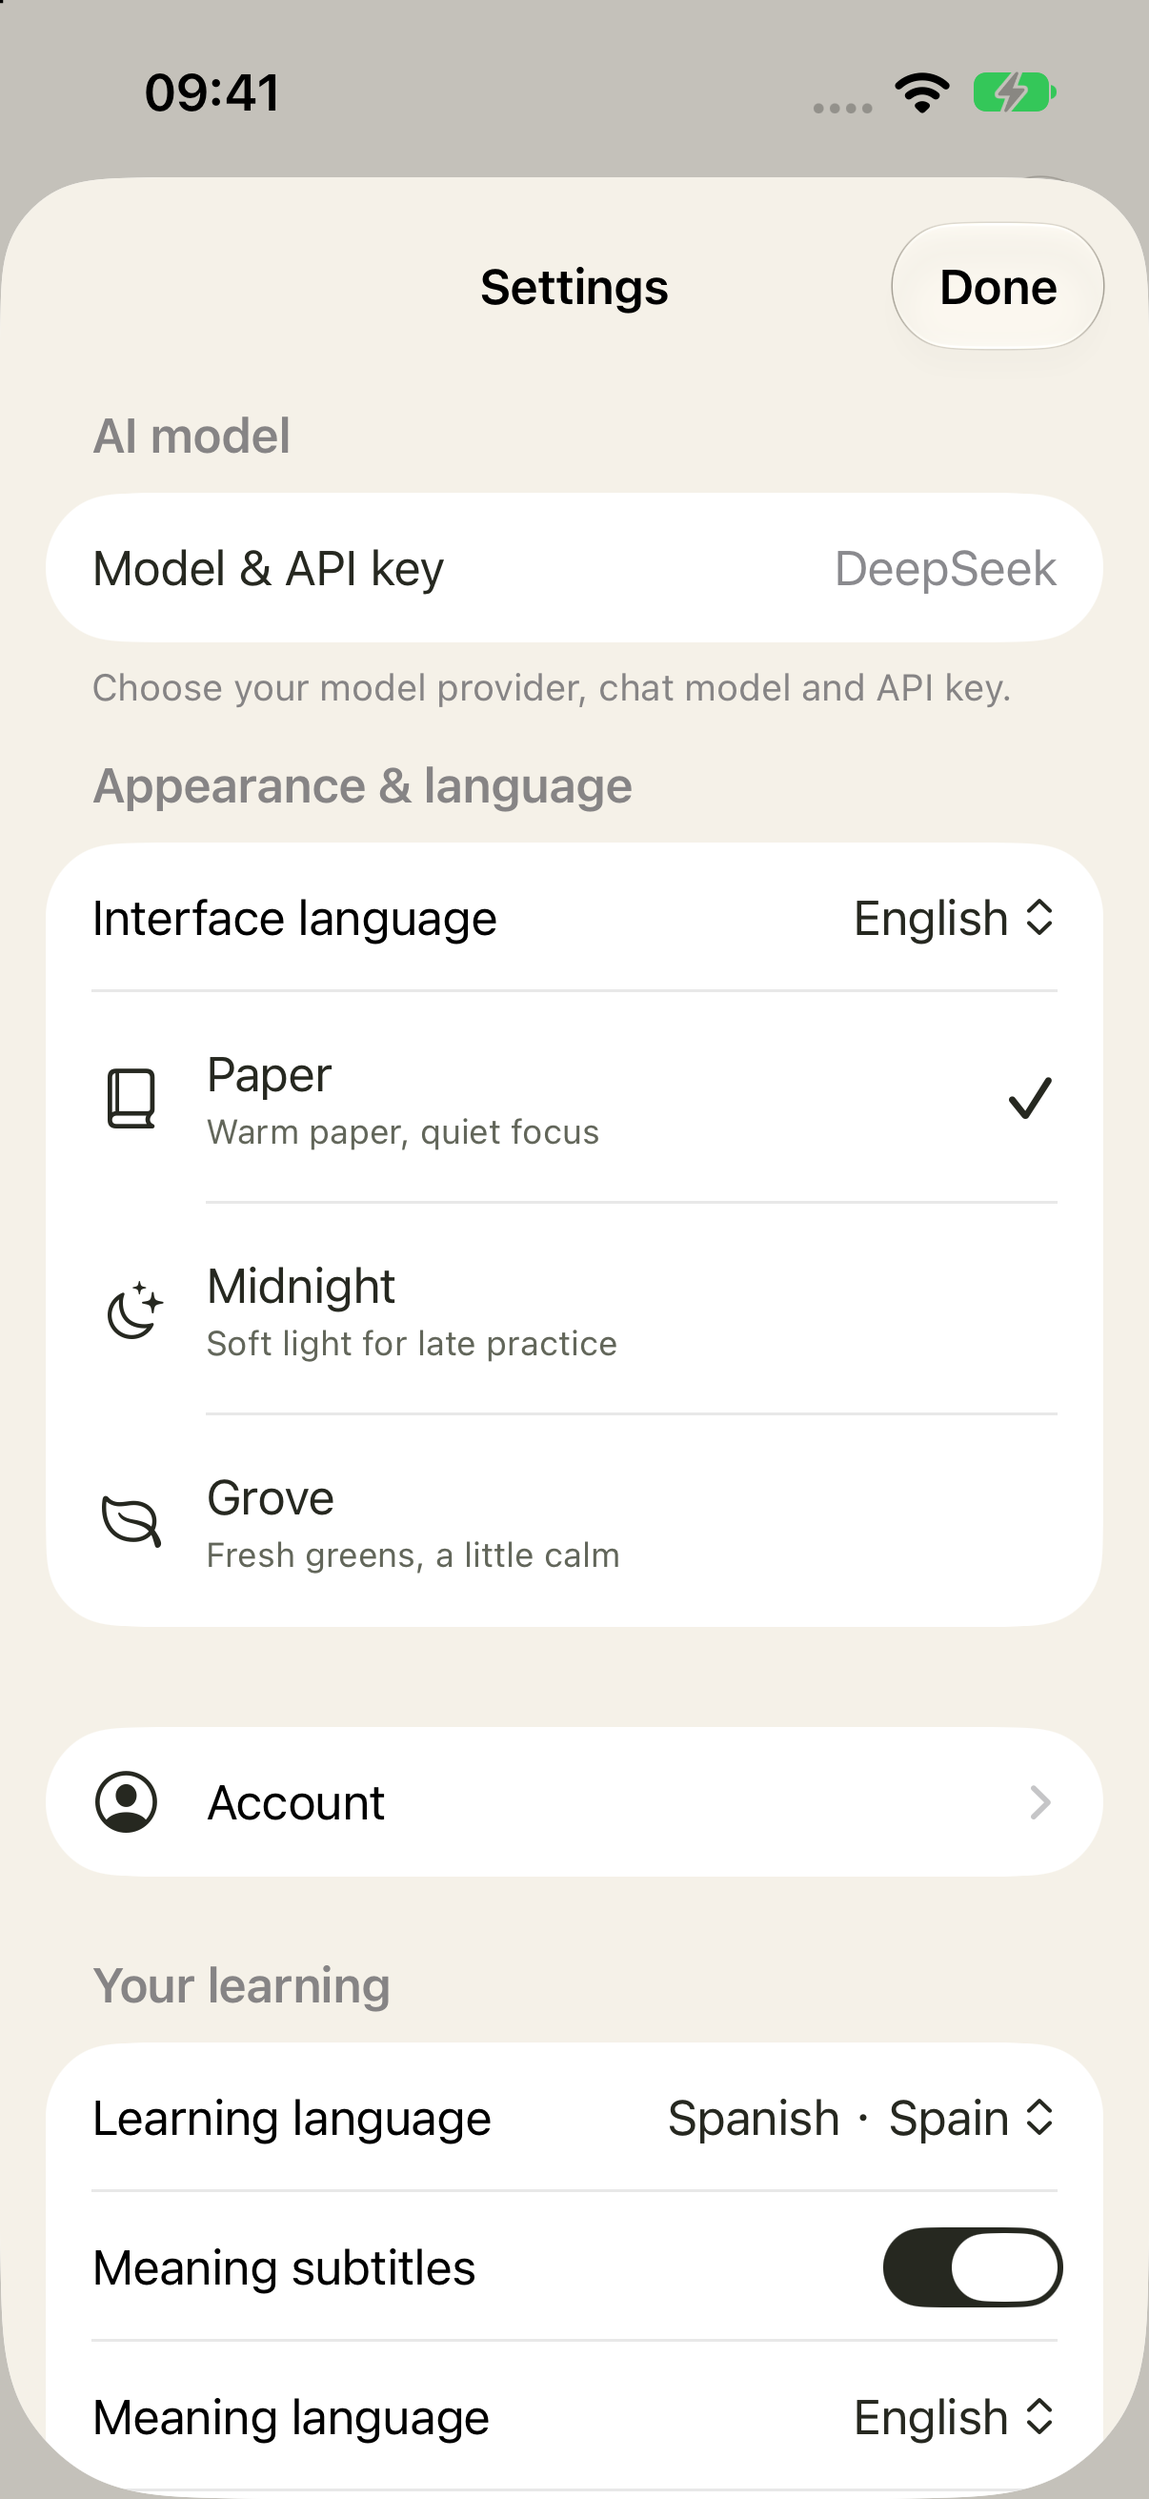
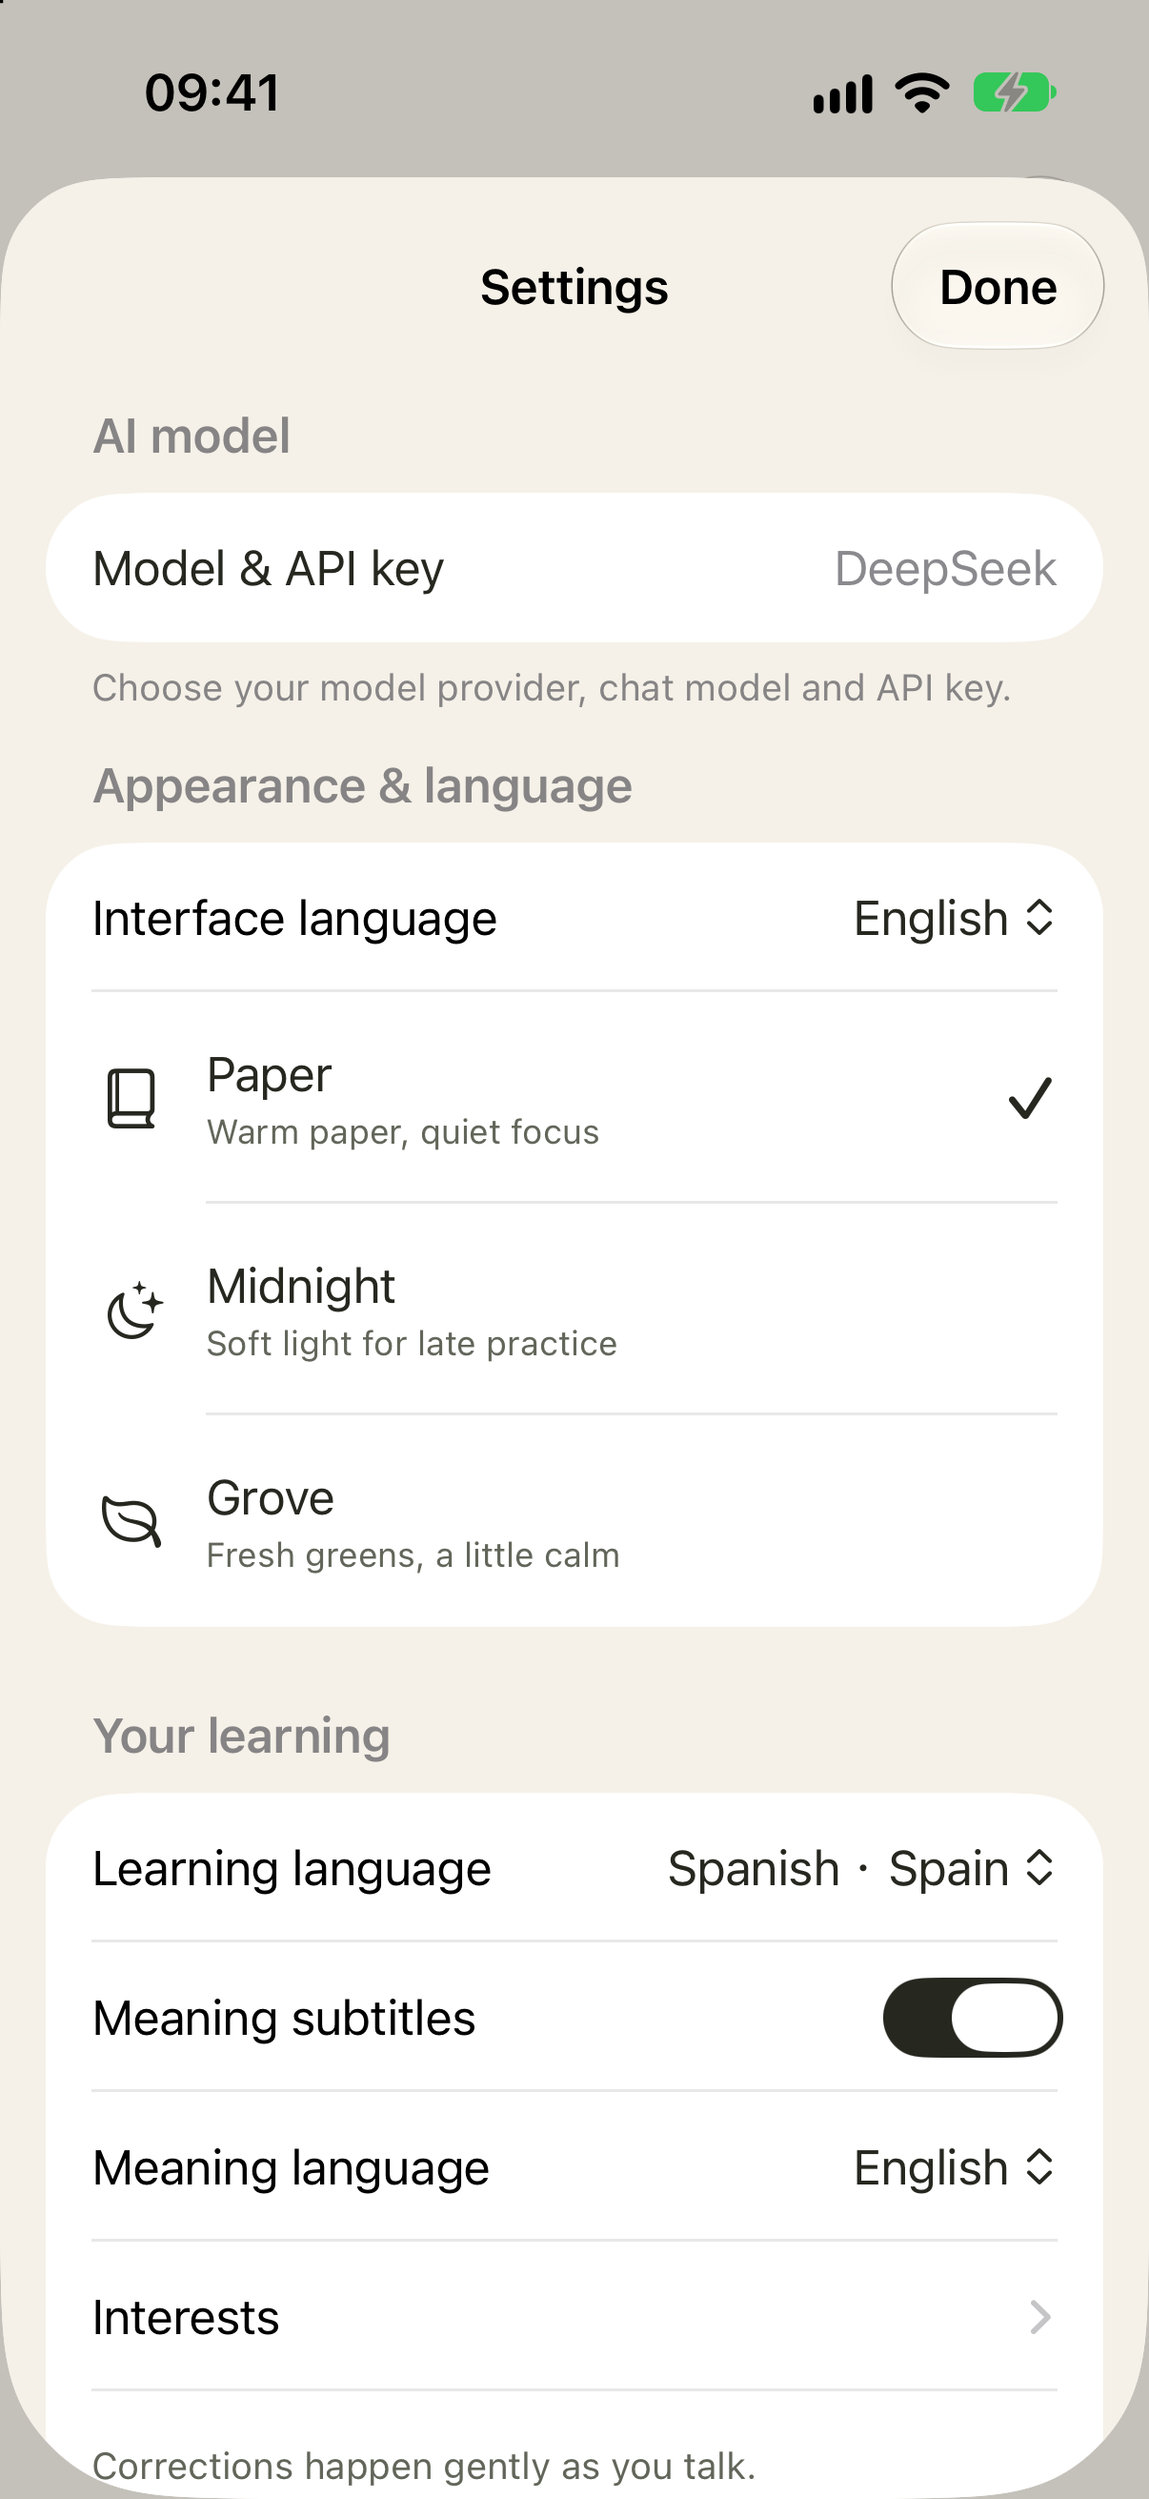
fix: disable app account sign-in by default

diff --git a/mobile/android/app/src/test/java/cn/gd306/tideenglish/network/EmailAccountClientTest.kt b/mobile/android/app/src/test/java/cn/gd306/tideenglish/network/EmailAccountClientTest.kt
@@ -9,12 +9,12 @@ import org.junit.Assert.*
 import org.junit.Test
 class EmailAccountClientTest {
  @Test fun challengeUsesFixedPathAndDoesNotFollowRedirects()=runTest {
-  var calls=0;val transport=OkHttpClient.Builder().addInterceptor { chain->calls++;assertEquals("https://api.gd306.cn/v1/email-auth/challenge",chain.request().url.toString());assertNull(chain.request().header("Authorization"));Response.Builder().request(chain.request()).protocol(Protocol.HTTP_1_1).code(302).message("redirect").header("Location","https://example.org/").body("{}".toResponseBody()).build() }.build()
-  try{EmailAccountClient(EmailAccountConfiguration(),transport).challenge("a@example.com");fail("accepted redirect")}catch(e:EmailAccountException){assertEquals(EmailAccountFailure.Unavailable,e.failure)};assertEquals(1,calls)
+  var calls=0;val transport=OkHttpClient.Builder().addInterceptor { chain->calls++;assertEquals("https://accounts.example.test/v1/email-auth/challenge",chain.request().url.toString());assertNull(chain.request().header("Authorization"));Response.Builder().request(chain.request()).protocol(Protocol.HTTP_1_1).code(302).message("redirect").header("Location","https://example.org/").body("{}".toResponseBody()).build() }.build()
+  try{EmailAccountClient(EmailAccountConfiguration("https://accounts.example.test"),transport).challenge("a@example.com");fail("accepted redirect")}catch(e:EmailAccountException){assertEquals(EmailAccountFailure.Unavailable,e.failure)};assertEquals(1,calls)
  }
  @Test fun rejectsExtraFieldsAndRedactsRawErrors()=runTest {
   val transport=OkHttpClient.Builder().addInterceptor { chain->Response.Builder().request(chain.request()).protocol(Protocol.HTTP_1_1).code(202).message("ok").body("""{"challengeID":"12345678-1234-4234-8234-123456789012","expiresInSeconds":300,"retryAfterSeconds":60,"secret":"private"}""".toResponseBody()).build() }.build()
-  try{EmailAccountClient(EmailAccountConfiguration(),transport).challenge("a@example.com");fail("accepted unknown field")}catch(e:EmailAccountException){assertEquals(EmailAccountFailure.InvalidResponse,e.failure);assertFalse(e.toString().contains("private"))}
+  try{EmailAccountClient(EmailAccountConfiguration("https://accounts.example.test"),transport).challenge("a@example.com");fail("accepted unknown field")}catch(e:EmailAccountException){assertEquals(EmailAccountFailure.InvalidResponse,e.failure);assertFalse(e.toString().contains("private"))}
  }
- @Test fun configurationRejectsCredentialPathsAndCleartext(){for(v in listOf("http://api.gd306.cn","https://u:p@api.gd306.cn","https://api.gd306.cn/path","https://api.gd306.cn?x=y"))assertThrows(EmailAccountException::class.java){EmailAccountConfiguration(v)}}
+ @Test fun configurationRejectsCredentialPathsAndCleartext(){for(v in listOf("http://accounts.example.test","https://u:p@accounts.example.test","https://accounts.example.test/path","https://accounts.example.test?x=y"))assertThrows(EmailAccountException::class.java){EmailAccountConfiguration(v)}}
 }

diff --git a/mobile/android/app/src/main/java/cn/gd306/tideenglish/EmailAccountViewModel.kt b/mobile/android/app/src/main/java/cn/gd306/tideenglish/EmailAccountViewModel.kt
@@ -5,15 +5,18 @@ import androidx.lifecycle.viewModelScope
 import cn.gd306.tideenglish.core.*
 import cn.gd306.tideenglish.network.*
 import kotlinx.coroutines.launch
+import kotlinx.coroutines.flow.MutableStateFlow
+import kotlinx.coroutines.flow.asStateFlow
 class EmailAccountViewModel(application:Application):AndroidViewModel(application) {
- private val configuration=EmailAccountConfiguration()
- private val controller=EmailAccountController(EmailAccountClient(configuration),EmailAccountSessionStore(application,configuration.storageScope),configuration.storageScope)
- val state=controller.state
- init {viewModelScope.launch {controller.restore()} }
- fun restore(){viewModelScope.launch {controller.restore()} }
- fun sendCode(email:String,deleting:Boolean=false){viewModelScope.launch {controller.sendCode(email,deleting)} }
- fun verify(code:String){viewModelScope.launch {controller.verify(code)} }
- fun signOut(){viewModelScope.launch {controller.signOut()} }
- fun invalidateChallenge()=controller.invalidateChallenge()
- fun cancelDeletion()=controller.cancelDeletion()
+ private val configuration=EmailAccountConfiguration.configured(BuildConfig.TIDE_ENGLISH_EMAIL_ACCOUNTS_ENABLED,BuildConfig.TIDE_ENGLISH_EMAIL_ACCOUNT_API_URL)
+ private val controller=configuration?.let { EmailAccountController(EmailAccountClient(it),EmailAccountSessionStore(application,it.storageScope),it.storageScope) }
+ val enabled=configuration!=null
+ val state=controller?.state?:MutableStateFlow(EmailAccountState()).asStateFlow()
+ init {restore()}
+ fun restore(){controller?.let { viewModelScope.launch {it.restore()} } }
+ fun sendCode(email:String,deleting:Boolean=false){controller?.let { viewModelScope.launch {it.sendCode(email,deleting)} } }
+ fun verify(code:String){controller?.let { viewModelScope.launch {it.verify(code)} } }
+ fun signOut(){controller?.let { viewModelScope.launch {it.signOut()} } }
+ fun invalidateChallenge()=controller?.invalidateChallenge()
+ fun cancelDeletion()=controller?.cancelDeletion()
 }

diff --git a/mobile/android/app/src/test/java/cn/gd306/tideenglish/core/EmailAccountProtocolTest.kt b/mobile/android/app/src/test/java/cn/gd306/tideenglish/core/EmailAccountProtocolTest.kt
@@ -2,6 +2,13 @@ package cn.gd306.tideenglish.core
 import org.junit.Assert.*
 import org.junit.Test
 class EmailAccountProtocolTest {
+ @Test fun emailAccountsRequireExplicitFlagAndService() {
+  assertNull(EmailAccountConfiguration.configured())
+  assertNull(EmailAccountConfiguration.configured(apiURL="https://accounts.example.test"))
+  assertNull(EmailAccountConfiguration.configured(enabled=true))
+  assertNull(EmailAccountConfiguration.configured(enabled=true,apiURL="http://accounts.example.test"))
+  assertEquals("https://accounts.example.test",EmailAccountConfiguration.configured(enabled=true,apiURL="https://accounts.example.test")?.origin)
+ }
  @Test fun normalizesAndRejectsUnsafeAddresses() { assertEquals("a@example.com", EmailAccountValidation.email(" A@EXAMPLE.COM ")); for (v in listOf("a@localhost", "a\n@example.com", "a..b@example.com")) assertThrows(EmailAccountException::class.java) { EmailAccountValidation.email(v) } }
  @Test fun rotationPreservesOriginalDeadlineAndRejectsTokenReuse() { val e = EmailAccountExchange("12345678-1234-4234-8234-123456789012", "a@example.com", "a".repeat(43), "b".repeat(43),900,2000); val s=EmailAccountSession.create(e,"scope",1000); assertTrue(s.canRefresh("scope",1500)); assertFalse(s.canRefresh("other",1500)); assertThrows(EmailAccountException::class.java) { EmailAccountSession.create(e,"scope",1500,s) }; val rotated=EmailAccountSession.create(e.copy(accessToken="c".repeat(43),refreshToken="d".repeat(43)),"scope",1500,s); assertEquals(3000L,rotated.refreshExpiresAt) }
 }

diff --git a/mobile/android/app/src/androidTest/java/cn/gd306/tideenglish/SettingsParityTest.kt b/mobile/android/app/src/androidTest/java/cn/gd306/tideenglish/SettingsParityTest.kt
@@ -41,14 +41,15 @@ class SettingsParityTest {
         File(directory, "$name.png").outputStream().use { image.compress(Bitmap.CompressFormat.PNG, 100, it) }
     }
 
-    @Test fun optionalEmailAccountOpensWithoutCommercialControls() {
-        compose.onNodeWithTag("settings-screen").performScrollToNode(hasTestTag("email-account-settings"))
-        compose.onNodeWithTag("email-account-settings").performClick()
-        compose.onNodeWithText("Tide English account").assertIsDisplayed()
+    @Test fun defaultInstallHidesAccountsAndKeepsPersonalLearningSettings() {
+        assertFalse(BuildConfig.TIDE_ENGLISH_EMAIL_ACCOUNTS_ENABLED)
+        compose.onNodeWithTag("email-account-settings").assertDoesNotExist()
+        compose.onNodeWithTag("model-api-settings").assertIsDisplayed()
         compose.onNodeWithTag("account-minute-balance").assertDoesNotExist()
         compose.onNodeWithTag("account-conversation-source").assertDoesNotExist()
-        capture("08-guest-account")
-        compose.onNodeWithTag("email-account-done").performClick()
+        capture("08-personal-defaults")
+        compose.onNodeWithTag("settings-screen").performScrollToNode(hasTestTag("settings-learning-language"))
+        compose.onNodeWithTag("settings-learning-language").assertIsDisplayed()
         compose.onNodeWithTag("settings-screen").assertIsDisplayed()
     }
 

diff --git a/mobile/android/app/src/main/java/cn/gd306/tideenglish/MainActivity.kt b/mobile/android/app/src/main/java/cn/gd306/tideenglish/MainActivity.kt
@@ -123,7 +123,7 @@ class MainActivity : ComponentActivity() {
             TideEnglishStartup(loading = vm.loadingHistory) {
             TideEnglishApp(
                 vm = vm,
-                onEmailAccount = { if (!vm.isRunning) showEmailAccount = true },
+                onEmailAccount = if (emailAccount.enabled) ({ if (!vm.isRunning) showEmailAccount = true }) else null,
                 emailAccountSummary = emailState.email,
                 microphoneMessage = microphoneMessage,
                 onRequestMicrophone = {
@@ -147,7 +147,7 @@ class MainActivity : ComponentActivity() {
                 onBuyMinutes = { sku, quantity -> if (!changingAccount) purchases.launch(this@MainActivity, sku, quantity) },
             )
             }
-            if (showEmailAccount) cn.gd306.tideenglish.ui.TidePresentation {
+            if (showEmailAccount && emailAccount.enabled) cn.gd306.tideenglish.ui.TidePresentation {
                 cn.gd306.tideenglish.ui.TideEnglishTheme {
                     cn.gd306.tideenglish.ui.EmailAccountSheet(viewModel = emailAccount,
                         chinese = cn.gd306.tideenglish.ui.LocalInterfaceLanguage.current == cn.gd306.tideenglish.ui.InterfaceLanguage.CHINESE,

diff --git a/mobile/ios/Tests/EmailAccountTests.swift b/mobile/ios/Tests/EmailAccountTests.swift
@@ -2,6 +2,14 @@ import XCTest
 @testable import TideEnglishCore
 
 final class EmailAccountTests: XCTestCase {
+    func testEmailAccountsRequireAnExplicitFlagAndService() {
+        XCTAssertNil(EmailAccountConfiguration.configured())
+        XCTAssertNil(EmailAccountConfiguration.configured(apiURL: "https://accounts.example.test"))
+        XCTAssertNil(EmailAccountConfiguration.configured(enabled: true))
+        XCTAssertNil(EmailAccountConfiguration.configured(enabled: true, apiURL: "http://accounts.example.test"))
+        XCTAssertEqual(EmailAccountConfiguration.configured(enabled: true, apiURL: "https://accounts.example.test")?.origin.absoluteString,
+                       "https://accounts.example.test")
+    }
     private let now = Date(timeIntervalSince1970: 1_000)
     private func exchange(_ changes: [String: Any] = [:]) throws -> EmailAccountExchange {
         var body: [String: Any] = ["accountID":"aaaaaaaa-aaaa-4aaa-8aaa-aaaaaaaaaaaa", "email":"preview@example.test", "accessToken":String(repeating:"a", count:43), "refreshToken":String(repeating:"b", count:43), "expiresInSeconds":900, "refreshExpiresInSeconds":2592000]

diff --git a/mobile/android/app/src/main/java/cn/gd306/tideenglish/network/EmailAccountClient.kt b/mobile/android/app/src/main/java/cn/gd306/tideenglish/network/EmailAccountClient.kt
@@ -12,7 +12,7 @@ import kotlin.coroutines.resume
 import kotlin.coroutines.resumeWithException
 
 class EmailAccountClient internal constructor(private val configuration:EmailAccountConfiguration, transport:OkHttpClient):EmailAccountService {
- constructor(configuration:EmailAccountConfiguration=EmailAccountConfiguration()):this(configuration,OkHttpClient())
+ constructor(configuration:EmailAccountConfiguration):this(configuration,OkHttpClient())
  private val client=transport.newBuilder().followRedirects(false).followSslRedirects(false).cookieJar(CookieJar.NO_COOKIES).cache(null).authenticator(Authenticator.NONE).proxyAuthenticator(Authenticator.NONE).retryOnConnectionFailure(false).callTimeout(25,TimeUnit.SECONDS).build()
  private val json=Json { ignoreUnknownKeys=false; coerceInputValues=false }
  override suspend fun challenge(email:String):EmailAccountChallenge = decode<EmailAccountChallenge>(request("POST","email-auth/challenge",buildJsonObject { put("email",EmailAccountValidation.email(email)) },expected=202)).also { it.validate() }

diff --git a/mobile/android/app/src/main/java/cn/gd306/tideenglish/core/EmailAccountProtocol.kt b/mobile/android/app/src/main/java/cn/gd306/tideenglish/core/EmailAccountProtocol.kt
@@ -18,7 +18,11 @@ object EmailAccountValidation {
  fun code(v: String)=Regex("[0-9]{6}").matches(v)
  fun identity(v: String)=Regex("[0-9a-fA-F]{8}-[0-9a-fA-F]{4}-[1-5][0-9a-fA-F]{3}-[89abAB][0-9a-fA-F]{3}-[0-9a-fA-F]{12}").matches(v)
 }
-class EmailAccountConfiguration(apiURL: String = "https://api.gd306.cn") {
+class EmailAccountConfiguration(apiURL: String) {
+ companion object {
+  fun configured(enabled: Boolean = false, apiURL: String = ""): EmailAccountConfiguration? =
+   if (enabled) runCatching { EmailAccountConfiguration(apiURL) }.getOrNull() else null
+ }
  val origin: String
  val storageScope: String get()="tide.email-account.v1|$origin"
  init { val u=try { URI(apiURL) } catch (_: Exception) { fail(EmailAccountFailure.Unavailable) }; if(u.scheme?.lowercase()!="https" || u.host.isNullOrEmpty() || u.rawUserInfo!=null || u.rawQuery!=null || u.rawFragment!=null || u.rawPath !in listOf("","/") || u.port !in listOf(-1,443)) fail(EmailAccountFailure.Unavailable); origin="https://${u.host.lowercase(java.util.Locale.ROOT)}" }

diff --git a/mobile/ios/UITests/TideEnglishUITests.swift b/mobile/ios/UITests/TideEnglishUITests.swift
@@ -1084,6 +1084,17 @@ final class TideEnglishUITests: XCTestCase {
         XCTAssertTrue(app.buttons["start-conversation"].exists)
     }
 
+    func testPersonalInstallDoesNotOfferAccountSignIn() {
+        let app = XCUIApplication()
+        app.launchArguments = ["--preview", "--preview-provider=deepSeek", "--screenshot=words", "--preview-interface-language=english"]
+        app.launch()
+        app.buttons["settings-button"].tap()
+        XCTAssertTrue(app.buttons["settings-model-provider"].waitForExistence(timeout: 5))
+        XCTAssertFalse(app.buttons["email-account-settings"].exists)
+        XCTAssertFalse(app.buttons["managed-account-settings"].exists)
+        XCTAssertFalse(app.buttons["settings-conversation-access"].exists)
+    }
+
     func testPersonalPreviewOpensModelProviderSettings() {
         let app = XCUIApplication()
         app.launchArguments = ["--preview", "--preview-personal"]

diff --git a/mobile/android/app/src/main/java/cn/gd306/tideenglish/ui/TideEnglishApp.kt b/mobile/android/app/src/main/java/cn/gd306/tideenglish/ui/TideEnglishApp.kt
@@ -170,9 +170,7 @@ fun TideEnglishApp(
                     Column(Modifier.fillMaxHeight(.94f)) {
                         SettingsScreen(vm, onExport, onImport, onReviewConsent = {
                             vm.pendingCloudAction = null; showConsent = true
-                        }, onAccount = {
-                            onEmailAccount?.invoke()
-                        }, accountSummary = emailAccountSummary, focusAdvanced = focusAdvanced,
+                        }, onAccount = onEmailAccount, accountSummary = emailAccountSummary, focusAdvanced = focusAdvanced,
                             onDismiss = { showSettings = false; focusAdvanced = false })
                     }
                 }

diff --git a/mobile/ios/Application/ManagedAccountClient.swift b/mobile/ios/Application/ManagedAccountClient.swift
@@ -212,10 +212,8 @@ extension EmailAccountConfiguration {
         }
         #endif
         let flag = bundle.object(forInfoDictionaryKey: "TideEnglishEmailAccountsEnabled")
-        guard flag as? Bool == true || (flag as? String)?.uppercased() == "YES",
-              let api = bundle.object(forInfoDictionaryKey: "TideEnglishEmailAccountAPIURL") as? String
-        else { return nil }
-        return try? Self(apiURL: api)
+        return configured(enabled: flag as? Bool == true || (flag as? String)?.uppercased() == "YES",
+                          apiURL: bundle.object(forInfoDictionaryKey: "TideEnglishEmailAccountAPIURL") as? String ?? "")
     }
 }
 

diff --git a/mobile/ios/Domain/EmailAccountProtocol.swift b/mobile/ios/Domain/EmailAccountProtocol.swift
@@ -31,6 +31,10 @@ public enum EmailAccountError: Error, Equatable, Sendable {
 }
 
 public struct EmailAccountConfiguration: Equatable, Sendable {
+    public static func configured(enabled: Bool = false, apiURL: String = "") -> Self? {
+        guard enabled else { return nil }
+        return try? Self(apiURL: apiURL)
+    }
     public let origin: URL
     public var storageScope: String { "tideenglish.email-account.v1|" + origin.absoluteString }
     public init(apiURL: String) throws {
